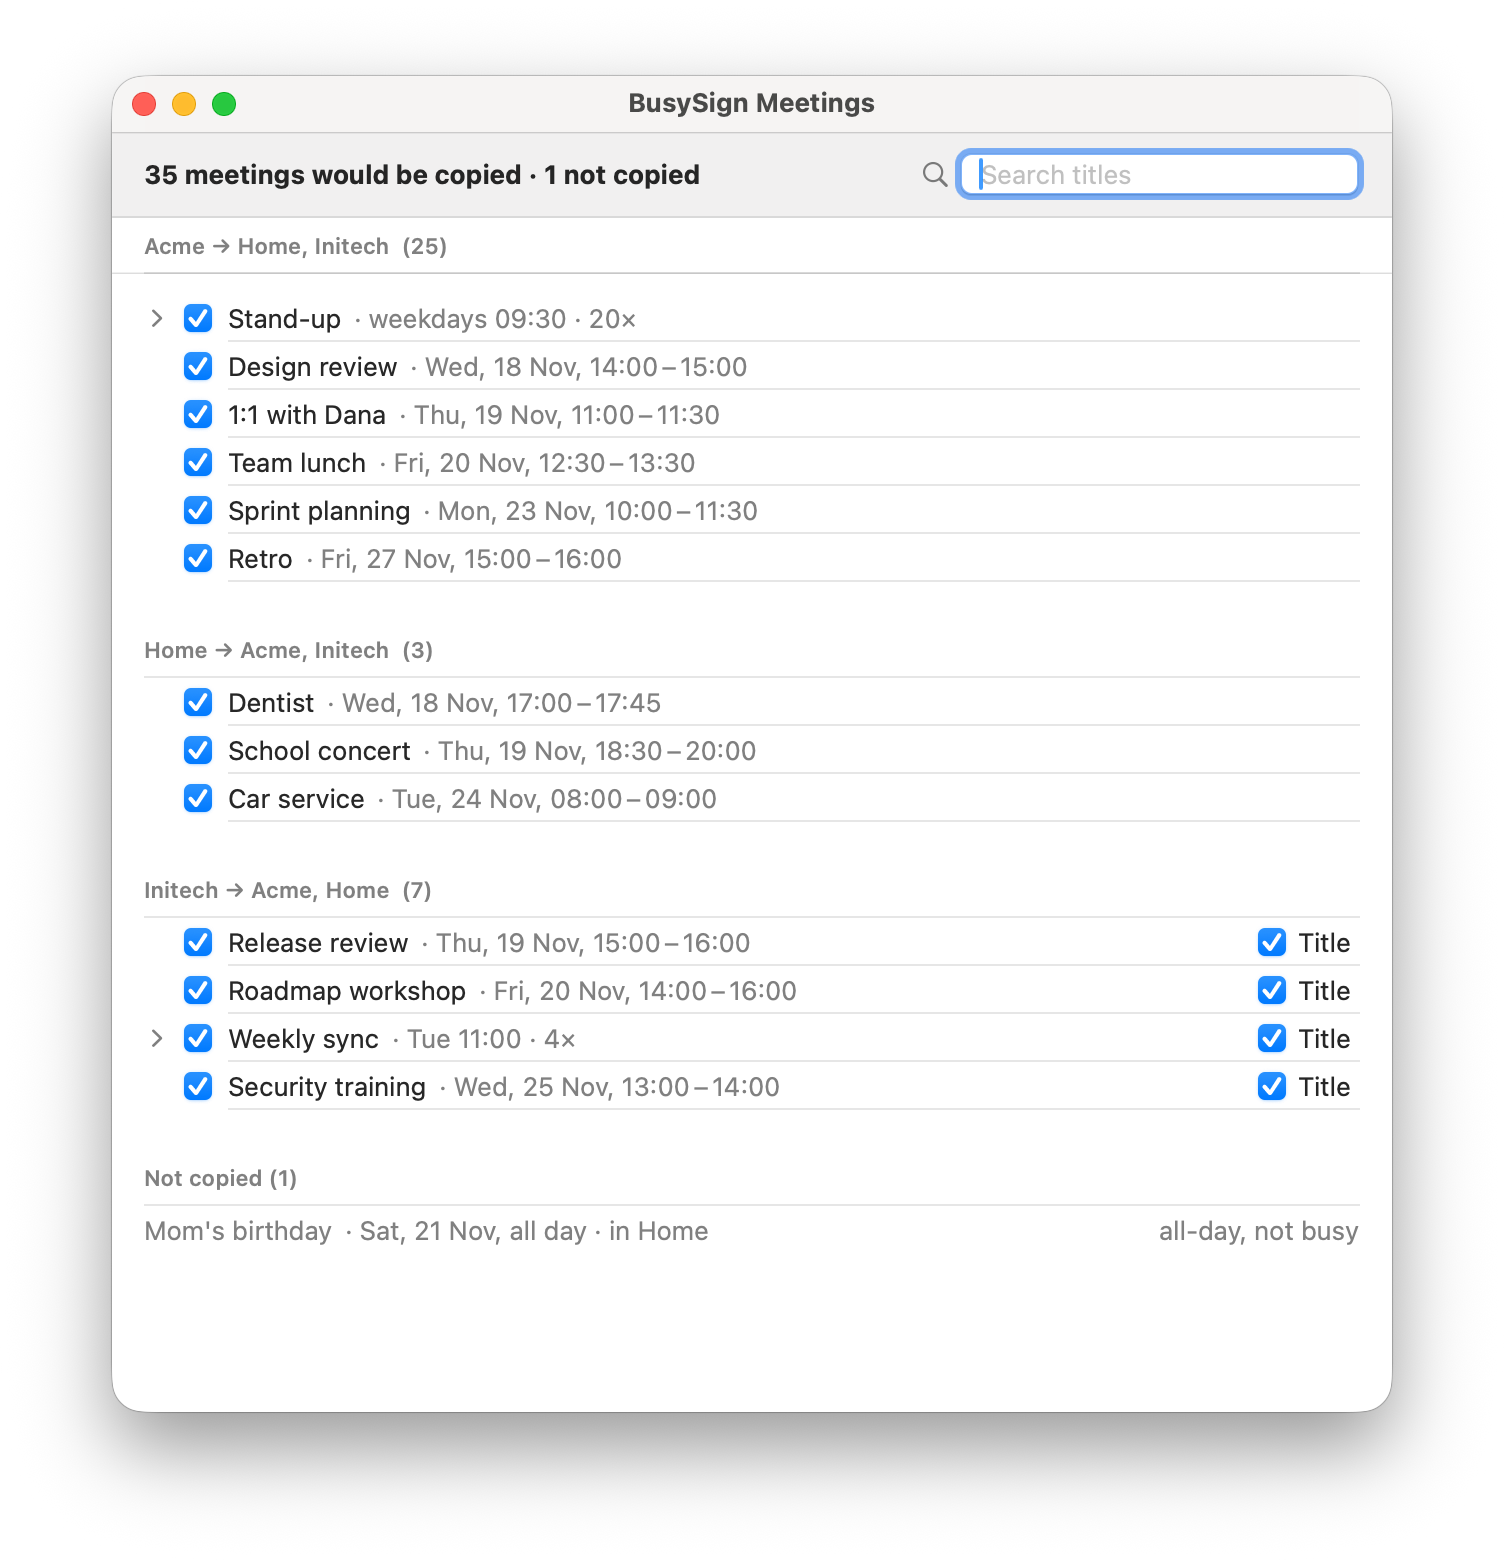
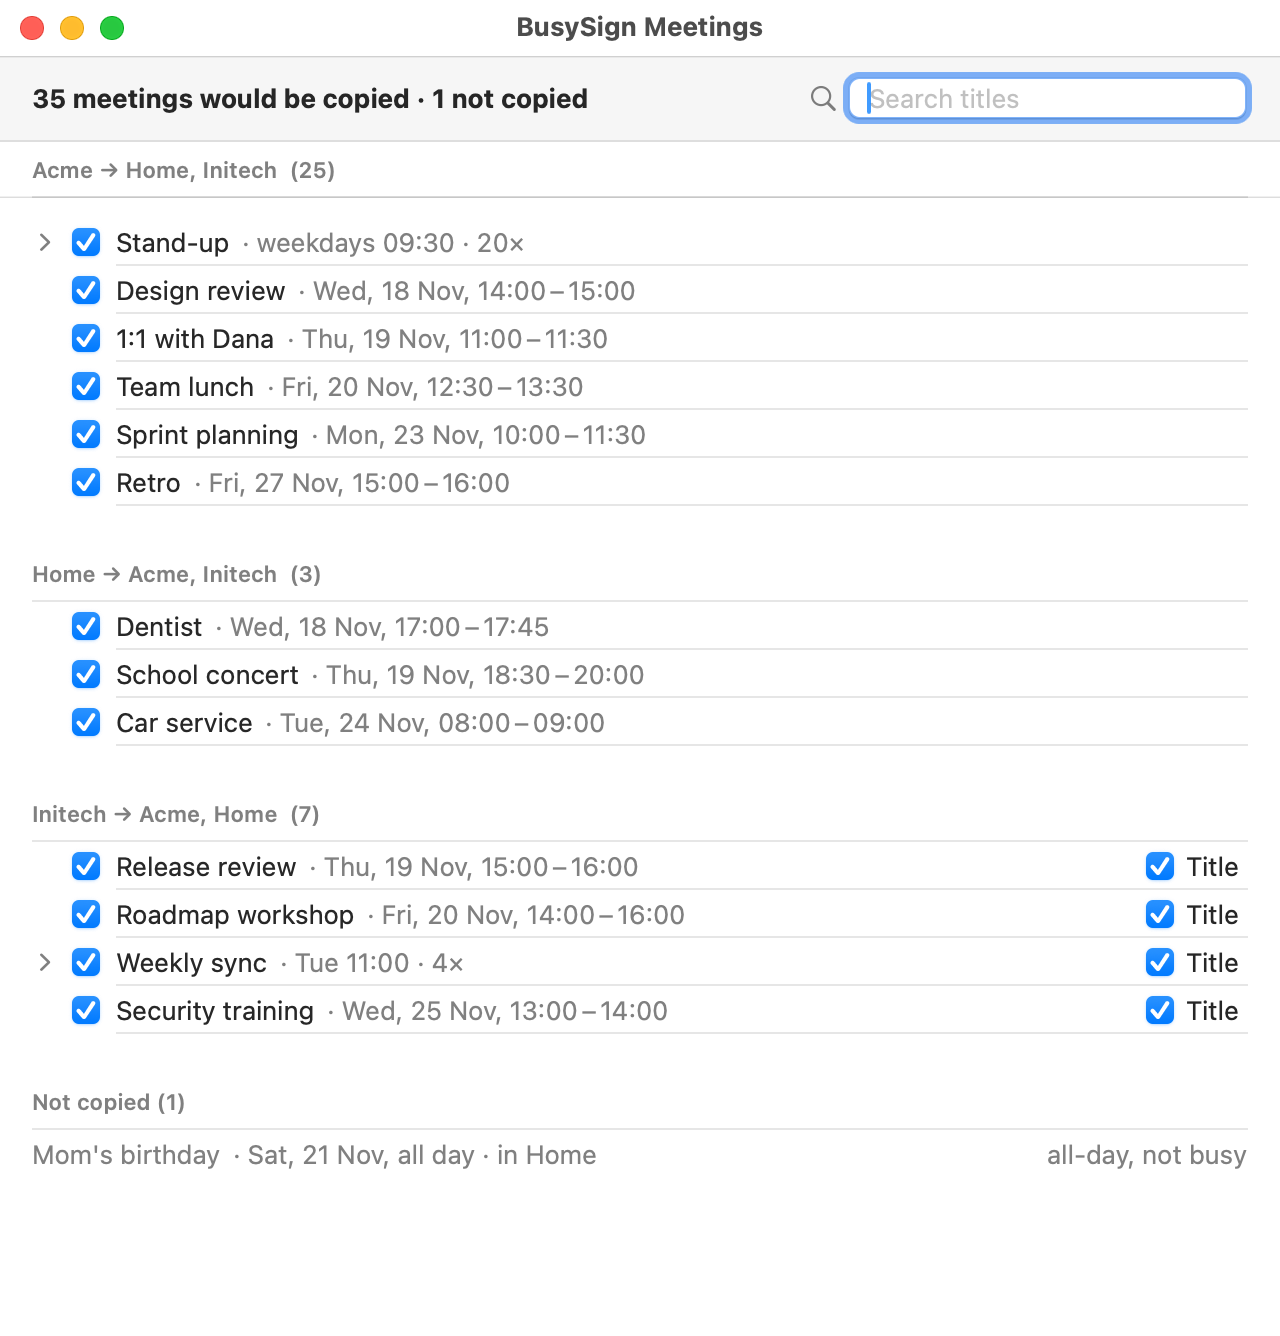
docs: use opaque, trimmed screenshots
Recaptured with Reduce transparency and without the window shadow, then cropped to the window, so the menu and the confirmation are no longer grey and no transparent margin is left. Settings now keeps Source: Title on the pair the Meetings picture shows titles for.

Changed region(s): [[0.0312, 0.0307, 1.0, 0.9513], [0.4062, 0.0, 0.5938, 0.0307], [0.0, 0.0, 0.0938, 0.0307]]

diff --git a/README.md b/README.md
@@ -43,13 +43,13 @@ BusySign has no Dock icon, it lives in the menu bar as a small door-hanger sign.
 
 Then open Settings… from the menu-bar icon. It shows one row per account, its main calendar under a short name like "Acme" that you can change with the pencil, and the account's other calendars under "Other calendars". Nothing is ticked at first, so tick the calendars you want to keep in sync and click Apply in the bar that shows up at the bottom of the window - nothing runs until at least two are ticked and applied. Calendars BusySign can't write to, birthdays and subscribed calendars aren't listed unless already ticked.
 
-<p align="center"><img src="docs/images/settings.png" alt="BusySign Settings with three calendars ticked and a change waiting for Apply" width="632"></p>
+<p align="center"><img src="docs/images/settings.png" alt="BusySign Settings with three calendars ticked and a change waiting for Apply" width="520"></p>
 
 It starts in dry run. It reads the selected calendars and works out what it would do, but writes nothing. The menu shows something like "Dry run: would add 70, remove 0" and a line per calendar like "Acme → Home, Initech: 25 meetings". Look at whether those numbers make sense for your next few weeks. When they do, pick "Switch to live" in the menu (or Mode → Live in Settings), it asks once more with what the last dry run planned, and from then on every run writes. "Switch to live" stays greyed until a dry run with the current settings has finished, and while changes wait for Apply it says "Apply or revert your changes first", and a click on Live in Settings makes the Apply bar flash. Dry run really writes nothing, not even when you untick a calendar and apply, so the Busy blocks in that calendar wait for Live, see below.
 
-<p align="center"><img src="docs/images/menu.png" alt="The BusySign menu in Dry run with one line per calendar" width="449"></p>
+<p align="center"><img src="docs/images/menu.png" alt="The BusySign menu in Dry run with one line per calendar" width="301"></p>
 
-<p align="center"><img src="docs/images/live-confirm.png" alt="The confirmation before switching to Live" width="384"></p>
+<p align="center"><img src="docs/images/live-confirm.png" alt="The confirmation before switching to Live" width="262"></p>
 
 By default it looks 30 days ahead, checks every 5 minutes and shortly after anything changes in Calendar, and starts at login. All of that can be changed in Settings. BusySign only sees what Calendar has already synced, so a meeting booked on the server turns into a Busy block once Calendar has picked it up.
 
@@ -65,7 +65,7 @@ An event counts as busy unless it's marked free or you declined it. Invitations 
 
 Meetings… in the menu, or the button next to the status in Settings, opens a window with every meeting BusySign looks at, grouped by the calendar it comes from. A ticked meeting gets a Busy block in the other calendars its calendar copies to, untick it and BusySign leaves it out. A recurring series is one row with one checkbox for the whole series - open it to tick or untick single days, and the box shows a dash when only some days are copied. Meetings BusySign doesn't copy anyway, declined or marked free for example, are listed greyed with the reason. These ticks wait for Apply like the settings do, with the same bar at the bottom of the window, and until then the header says "Changes not applied" instead of the counts. In Live the next sync after Apply writes them, and the rows then say what was added, moved or removed. The titles show only in this window on this Mac, unless you let a calendar's copies show them as described below, and BusySign keeps your choices on this Mac as well, as opaque keys rather than titles.
 
-<p align="center"><img src="docs/images/meetings.png" alt="The Meetings window with meetings per calendar, Title boxes and Not copied" width="752"></p>
+<p align="center"><img src="docs/images/meetings.png" alt="The Meetings window with meetings per calendar, Title boxes and Not copied" width="640"></p>
 
 ## What the copies look like
 
